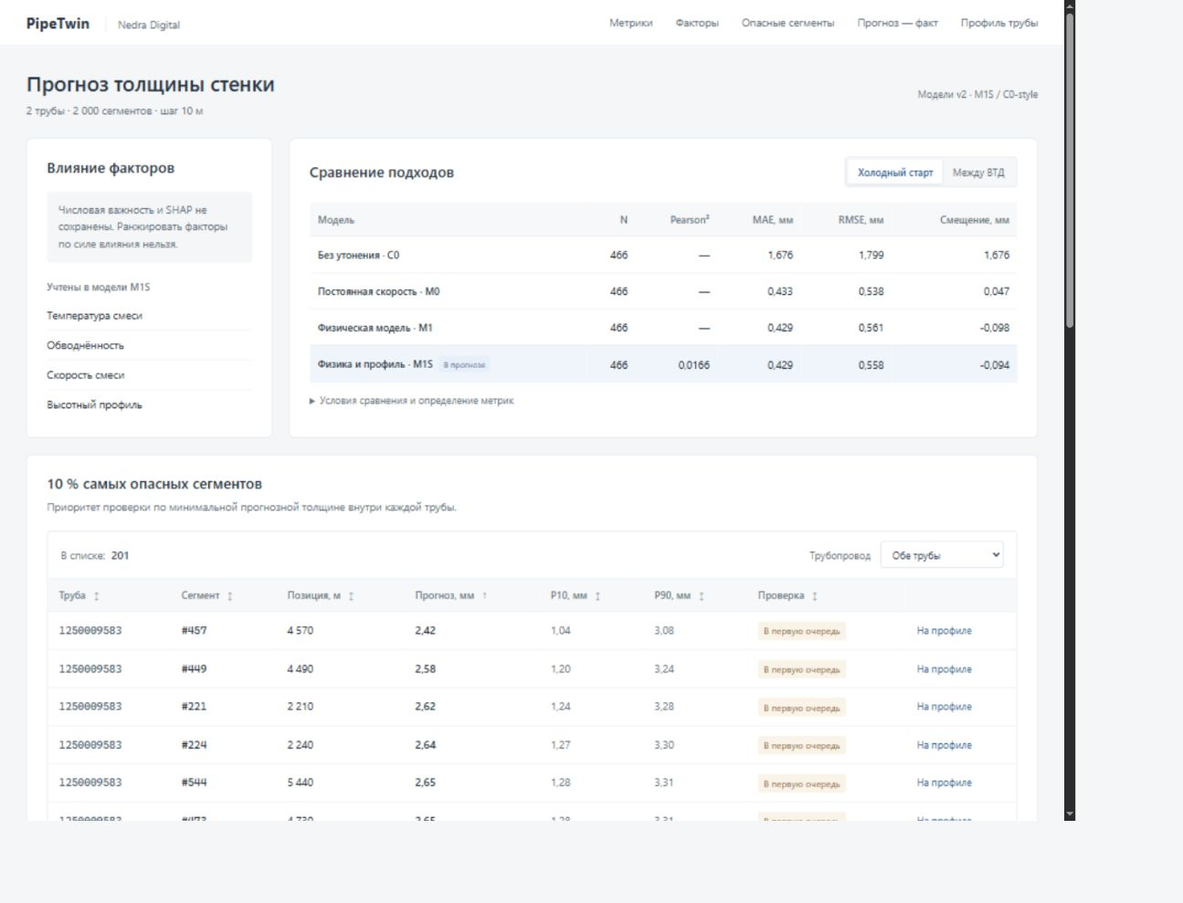
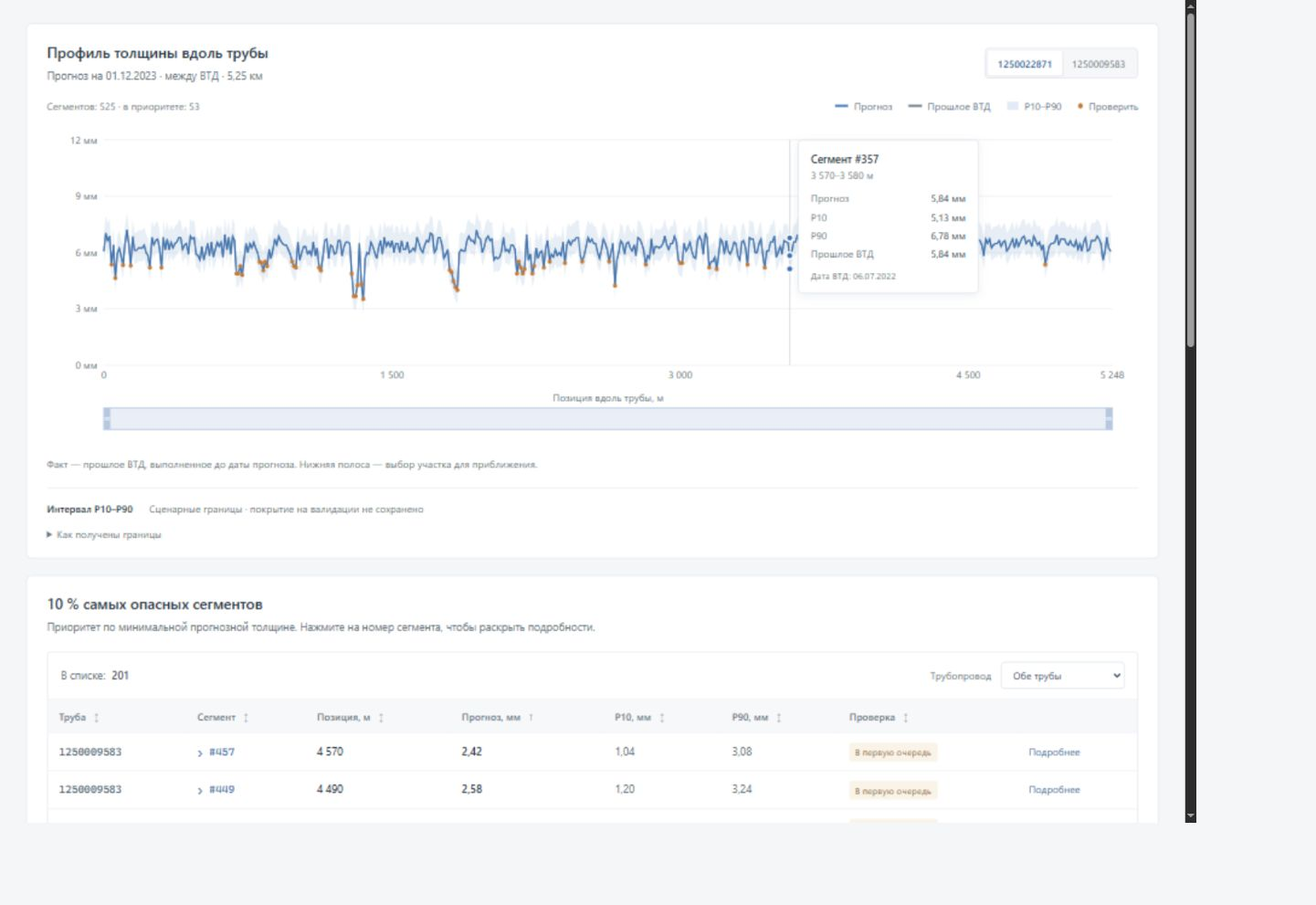
frontend-review with correct order

diff --git a/frontend/src/sections/RiskSection.tsx b/frontend/src/sections/RiskSection.tsx
@@ -1,6 +1,7 @@
-import { useMemo, useState } from 'react'
+import { Fragment, useMemo, useState } from 'react'
 import { SectionHeading } from '../components/SectionHeading'
-import type { RiskData, RiskRow, SegmentSelection } from '../types'
+import { RiskSegmentDetails } from '../components/RiskSegmentDetails'
+import type { ProfileData, RiskData, RiskRow, SegmentSelection } from '../types'
 import { PAGE_SIZE } from '../utils/constants'
 import { format, integer } from '../utils/format'
 
@@ -12,11 +13,16 @@ const columns: { key: SortKey; label: string }[] = [
   { key: 'risk_level', label: 'Проверка' },
 ]
 
-export function RiskSection({ data, onSelect }: { data: RiskData; onSelect: (selection: SegmentSelection) => void }) {
+export function RiskSection({ data, profile, onSelect }: {
+  data: RiskData
+  profile: ProfileData
+  onSelect: (selection: SegmentSelection) => void
+}) {
   const [pipe, setPipe] = useState('all')
   const [sortKey, setSortKey] = useState<SortKey>('prediction_mm')
   const [ascending, setAscending] = useState(true)
   const [page, setPage] = useState(0)
+  const [expandedKey, setExpandedKey] = useState<string | null>(null)
   const pipeIds = [...new Set(data.rows.map(row => row.pipe_id))]
   const rows = useMemo(() => data.rows.filter(row => pipe === 'all' || row.pipe_id === pipe).sort((a, b) => {
     const first = a[sortKey], second = b[sortKey]
@@ -24,30 +30,62 @@ export function RiskSection({ data, onSelect }: { data: RiskData; onSelect: (sel
     return (ascending ? order : -order) || a.segment_id - b.segment_id
   }), [data.rows, pipe, sortKey, ascending])
   const pageCount = Math.ceil(rows.length / PAGE_SIZE)
+  function toggleSegment(row: RiskRow) {
+    const key = `${row.pipe_id}-${row.segment_id}`
+    setExpandedKey(previous => previous === key ? null : key)
+  }
+  function changePage(nextPage: number) {
+    setPage(nextPage)
+    setExpandedKey(null)
+  }
   function sort(key: SortKey) {
     setAscending(sortKey === key ? !ascending : true)
     setSortKey(key)
     setPage(0)
+    setExpandedKey(null)
   }
   function cell(row: RiskRow, key: SortKey) {
     if (key === 'p10_mm' || key === 'p90_mm') return <span className="muted">{format(row[key])}</span>
     if (key === 'risk_level') return <span className="risk-badge">В первую очередь</span>
     if (key === 'prediction_mm') return <strong>{format(row.prediction_mm)}</strong>
-    if (key === 'segment_id') return <span className="mono">#{row.segment_id}</span>
+    if (key === 'segment_id') {
+      const expanded = expandedKey === `${row.pipe_id}-${row.segment_id}`
+      return <button className="segment-toggle mono" type="button" aria-expanded={expanded}
+        aria-controls={`segment-details-${row.pipe_id}-${row.segment_id}`}
+        aria-label={`Сегмент ${row.segment_id}, труба ${row.pipe_id}`}
+        onClick={() => toggleSegment(row)}>
+        <span className={`segment-chevron${expanded ? ' is-open' : ''}`} aria-hidden="true">›</span>
+        #{row.segment_id}
+      </button>
+    }
     if (key === 'position_m') return integer(row.position_m)
     return <span className="mono pipe-id">{row.pipe_id}</span>
   }
   return <section id="risk" className="panel">
     <SectionHeading title="10 % самых опасных сегментов"
-      description="Приоритет проверки по минимальной прогнозной толщине внутри каждой трубы."/>
+      description="Приоритет по минимальной прогнозной толщине. Нажмите на номер сегмента, чтобы раскрыть подробности."/>
     <div className="table-card"><div className="table-toolbar"><span className="toolbar-label">В списке: <strong>{integer(data.rows.length)}</strong></span>
-      <label className="select-label">Трубопровод<select value={pipe} onChange={event => { setPipe(event.target.value); setPage(0) }} aria-label="Фильтр по трубе"><option value="all">Обе трубы</option>{pipeIds.map(id => <option key={id} value={id}>{id}</option>)}</select></label></div>
-      <table className="risk-table"><caption className="sr-only">Самые тонкие сегменты по сохранённому прогнозу</caption><thead><tr>{columns.map(column => <th key={column.key} scope="col" aria-sort={sortKey === column.key ? ascending ? 'ascending' : 'descending' : 'none'}><button onClick={() => sort(column.key)}>{column.label}<span>{sortKey === column.key ? ascending ? '↑' : '↓' : '↕'}</span></button></th>)}<th scope="col"><span className="sr-only">Показать на профиле</span></th></tr></thead>
-        <tbody>{rows.slice(page * PAGE_SIZE, (page + 1) * PAGE_SIZE).map(row => <tr key={`${row.pipe_id}-${row.segment_id}`}>
-          {columns.map(column => <td key={column.key}>{cell(row, column.key)}</td>)}
-          <td><button className="row-action" aria-label={`Показать сегмент ${row.segment_id} трубы ${row.pipe_id} на профиле`} onClick={() => onSelect({ pipeId: row.pipe_id, segmentId: row.segment_id })}>На профиле</button></td>
-        </tr>)}</tbody>
-      </table><div className="table-pagination"><span>{integer(page * PAGE_SIZE + 1)}–{integer(Math.min((page + 1) * PAGE_SIZE, rows.length))} из {integer(rows.length)} сегментов</span><div><button disabled={page === 0} onClick={() => setPage(page - 1)} aria-label="Предыдущая страница">←</button><span>Страница {page + 1} / {pageCount}</span><button disabled={page + 1 >= pageCount} onClick={() => setPage(page + 1)} aria-label="Следующая страница">→</button></div></div>
+      <label className="select-label">Трубопровод<select value={pipe} onChange={event => { setPipe(event.target.value); changePage(0) }} aria-label="Фильтр по трубе"><option value="all">Обе трубы</option>{pipeIds.map(id => <option key={id} value={id}>{id}</option>)}</select></label></div>
+      <table className="risk-table"><caption className="sr-only">Самые тонкие сегменты по сохранённому прогнозу</caption><thead><tr>{columns.map(column => <th key={column.key} scope="col" aria-sort={sortKey === column.key ? ascending ? 'ascending' : 'descending' : 'none'}><button onClick={() => sort(column.key)}>{column.label}<span>{sortKey === column.key ? ascending ? '↑' : '↓' : '↕'}</span></button></th>)}<th scope="col"><span className="sr-only">Подробности сегмента</span></th></tr></thead>
+        <tbody>{rows.slice(page * PAGE_SIZE, (page + 1) * PAGE_SIZE).map(row => {
+          const key = `${row.pipe_id}-${row.segment_id}`
+          const expanded = expandedKey === key
+          const detailsId = `segment-details-${key}`
+          return <Fragment key={key}>
+            <tr className={expanded ? 'is-expanded' : undefined}>
+              {columns.map(column => <td key={column.key}>{cell(row, column.key)}</td>)}
+              <td><button className="row-action" type="button" aria-expanded={expanded} aria-controls={detailsId}
+                aria-label={`Подробности сегмента ${row.segment_id}, труба ${row.pipe_id}`}
+                onClick={() => toggleSegment(row)}>{expanded ? 'Свернуть' : 'Подробнее'}</button></td>
+            </tr>
+            {expanded && <tr className="segment-details-row" id={detailsId}>
+              <td colSpan={columns.length + 1}>
+                <RiskSegmentDetails row={row} pipe={profile.pipes.find(item => item.pipe_id === row.pipe_id)} onSelect={onSelect}/>
+              </td>
+            </tr>}
+          </Fragment>
+        })}</tbody>
+      </table><div className="table-pagination"><span>{integer(page * PAGE_SIZE + 1)}–{integer(Math.min((page + 1) * PAGE_SIZE, rows.length))} из {integer(rows.length)} сегментов</span><div><button disabled={page === 0} onClick={() => changePage(page - 1)} aria-label="Предыдущая страница">←</button><span>Страница {page + 1} / {pageCount}</span><button disabled={page + 1 >= pageCount} onClick={() => changePage(page + 1)} aria-label="Следующая страница">→</button></div></div>
     </div><p className="footnote">P10–P90 — сохранённые сценарные границы. Они не калиброваны как предиктивный интервал.</p>
   </section>
 }

diff --git a/frontend/src/styles.css b/frontend/src/styles.css
@@ -13,7 +13,7 @@
 }
 
 * { box-sizing: border-box; }
-html { min-width: 1280px; scroll-padding-top: 76px; }
+html { min-width: 1280px; scroll-padding-top: 24px; }
 body { margin: 0; }
 button, select { font: inherit; }
 button { cursor: pointer; }
@@ -72,6 +72,7 @@ button, a, select { -webkit-tap-highlight-color: transparent; }
   gap: 24px;
   margin-bottom: 24px;
 }
+.page-heading:empty { display: none; }
 h1 { margin: 0; font-size: 26px; font-weight: 600; letter-spacing: -.5px; }
 .page-heading p { color: var(--muted); margin: 8px 0 0; font-size: 13px; }
 .dataset-label { font-size: 12px; color: var(--muted); }
@@ -123,6 +124,23 @@ td strong { font-weight: 600; }
 .risk-badge { color: #926a32; background: #faf3e8; border-radius: 3px; padding: 4px 7px; font-size: 11px; white-space: nowrap; }
 .row-action { border: 0; background: transparent; color: #416fa5; font-size: 12px; padding: 5px 0; white-space: nowrap; }
 .row-action:hover { text-decoration: underline; }
+.segment-toggle { display: inline-flex; align-items: center; gap: 8px; padding: 5px 0; border: 0; background: transparent; color: #356ba9; }
+.segment-toggle:hover { text-decoration: underline; }
+.segment-chevron { display: inline-block; font-family: 'Segoe UI', sans-serif; font-size: 20px; line-height: 14px; transition: transform .15s; }
+.segment-chevron.is-open { transform: rotate(90deg); }
+.risk-table tr.is-expanded, .risk-table tr.is-expanded:hover { background: #eef4fb; }
+.risk-table .segment-details-row > td { padding: 0; }
+.risk-table .segment-details-row:hover { background: transparent; }
+.segment-details { padding: 20px 24px; background: #f7f9fc; border-left: 3px solid #6e99cb; }
+.segment-details-heading { display: flex; justify-content: space-between; align-items: center; gap: 24px; margin-bottom: 18px; }
+.segment-details-heading strong { font-size: 14px; font-weight: 600; }
+.segment-details-heading p { margin: 6px 0 0; font-size: 12px; color: var(--muted); }
+.segment-details-heading .button { font-size: 12px; }
+.segment-details-grid { display: grid; grid-template-columns: repeat(3, minmax(0, 1fr)); gap: 20px 32px; margin: 0; }
+.segment-details-grid dt { margin-bottom: 6px; font-size: 12px; color: var(--muted); }
+.segment-details-grid dd { margin: 0; font-size: 14px; font-weight: 500; }
+.segment-details-grid small { display: block; margin-top: 4px; font-size: 12px; font-weight: 400; color: var(--muted); }
+.segment-details-criterion { margin: 18px 0 0; padding-top: 14px; border-top: 1px solid #e1e7ef; font-size: 12px; color: var(--muted); }
 .table-pagination { display: flex; justify-content: space-between; align-items: center; padding: 12px 16px; border-top: 1px solid var(--border); color: var(--muted); font-size: 12px; }
 .table-pagination > div { display: flex; align-items: center; gap: 16px; }
 .table-pagination button { border: 1px solid var(--border); border-radius: 4px; background: #fff; color: #52667f; width: 30px; height: 28px; }

diff --git a/frontend/src/App.tsx b/frontend/src/App.tsx
@@ -1,5 +1,4 @@
 import { useState } from 'react'
-import { Header } from './components/Header'
 import { useProjectData } from './hooks/useProjectData'
 import { FactorsSection } from './sections/FactorsSection'
 import { RiskSection } from './sections/RiskSection'
@@ -7,7 +6,6 @@ import { ValidationSection } from './sections/ValidationSection'
 import { ProfileSection } from './sections/ProfileSection'
 import { ComparisonSection } from './sections/ComparisonSection'
 import type { FrontendData, SegmentSelection } from './types'
-import { integer } from './utils/format'
 
 function Dashboard({ data }: { data: FrontendData }) {
   const [groupId, setGroupId] = useState(data.validation.groups[0].id)
@@ -19,15 +17,15 @@ function Dashboard({ data }: { data: FrontendData }) {
   }
 
   //return <> <Header/> </>
-  return <> <main className="dashboard">
+  return <> <main className="dashboard" aria-label="Метрики и прогноз толщины стенки">
     <div className="page-heading">
       {/* <div><h1>Прогноз толщины стенки</h1><p>{data.profile.pipes.length} трубы · {integer(data.metrics.segment_count)} сегментов · шаг {data.metrics.segment_size_m} м</p></div> */}
       {/* <span className="dataset-label">Модели v2 · {data.metrics.final_model}</span> */}
     </div>
-    <div className="overview-grid"><FactorsSection data={data.importance}/><ComparisonSection data={data.metrics}/></div>
-    <RiskSection data={data.risk} onSelect={selectSegment}/>
-    <ValidationSection data={data.validation} group={group} onChange={setGroupId}/>
     <ProfileSection data={data.profile} intervalMethod={data.validation.interval_method} selection={selection}/>
+    <RiskSection data={data.risk} profile={data.profile} onSelect={selectSegment}/>
+    <ValidationSection data={data.validation} group={group} onChange={setGroupId}/>
+    <div className="overview-grid"><FactorsSection data={data.importance}/><ComparisonSection data={data.metrics}/></div>
   </main></>
 }
 

diff --git a/frontend/src/components/RiskSegmentDetails.tsx b/frontend/src/components/RiskSegmentDetails.tsx
@@ -1,0 +1,32 @@
+import type { Pipe, RiskRow, SegmentSelection } from '../types'
+import { date, format, integer } from '../utils/format'
+
+export function RiskSegmentDetails({ row, pipe, onSelect }: {
+  row: RiskRow
+  pipe?: Pipe
+  onSelect: (selection: SegmentSelection) => void
+}) {
+  const point = pipe?.points.find(item => item.segment_id === row.segment_id)
+  return <div className="segment-details">
+    <div className="segment-details-heading">
+      <div>
+        <strong>Сегмент #{row.segment_id} · труба {row.pipe_id}</strong>
+        <p>Место в списке для этой трубы: {row.rank}{pipe && ` из ${pipe.risk_count}`}</p>
+      </div>
+      <button className="button" onClick={() => onSelect({ pipeId: row.pipe_id, segmentId: row.segment_id })}>
+        Показать на профиле ↑
+      </button>
+    </div>
+    <dl className="segment-details-grid">
+      <div><dt>Участок трубы</dt><dd>{integer(row.position_m)}{point && `–${integer(point.end_m)}`} м</dd></div>
+      <div><dt>Прогноз толщины</dt><dd>{format(row.prediction_mm)} мм</dd></div>
+      <div><dt>Границы P10–P90</dt><dd>{format(row.p10_mm)}–{format(row.p90_mm)} мм</dd></div>
+      <div><dt>Дата прогноза</dt><dd>{pipe ? date(pipe.prediction_date) : '—'}</dd></div>
+      <div><dt>Прошлое ВТД</dt><dd>{point?.actual_mm == null ? 'Нет измерения' : `${format(point.actual_mm)} мм`}
+        {point?.actual_date && <small>от {date(point.actual_date)}</small>}
+      </dd></div>
+      <div><dt>Сценарий</dt><dd>{pipe ? pipe.case === 'cold_start' ? 'Холодный старт' : 'Между ВТД' : '—'}</dd></div>
+    </dl>
+    <p className="segment-details-criterion">Критерий приоритета: {row.criterion.toLocaleLowerCase('ru-RU')}.</p>
+  </div>
+}

diff --git a/frontend/REPORT.md b/frontend/REPORT.md
@@ -6,7 +6,7 @@
 
 ## Переделка в рабочую страницу метрик
 
-По запросу пользователя применён навык `.agents/skills/cleanup-vibe-code/SKILL.md`. До изменений проверены импорты, TypeScript, ссылки на компоненты, переменные окружения и отладочные остатки. TypeScript проходил; сломанных импортов и отладочного кода не было. Используется только стандартная переменная Vite `BASE_URL`; секреты и внешние интеграции не нужны. ESLint в проекте не настроен; дополнительные зависимости для этой переделки не устанавливались.
+По запросу пользователя применён навык `.agents/skills/vibe-code-cleanup/SKILL.md`. До изменений проверены импорты, TypeScript, ссылки на компоненты, переменные окружения и отладочные остатки. TypeScript проходил; сломанных импортов и отладочного кода не было. Используется только стандартная переменная Vite `BASE_URL`; секреты и внешние интеграции не нужны. ESLint в проекте не настроен; дополнительные зависимости для этой переделки не устанавливались.
 
 Удалены рекламный Hero, декоративная схема труб, слоганы, CTA, декоративные номера секций, повторяющиеся пояснения и подвал. В интерфейсе пять блоков: факторы, сравнение подходов, опасные сегменты, валидация, профиль толщины. Сценарный интервал встроен в профиль и таблицу. Метрики доступны сразу на первом экране. Подробности методики свёрнуты в `details`.
 
@@ -15,6 +15,28 @@
 `HeroSection`, `PipelineDiagram`, `UncertaintySection` удалены после проверки отсутствия потребителей. Неиспользуемые `TOP_FEATURE_COUNT`, `COLORS.ink`, `percent` и прежние CSS-правила удалены. Контракты JSON, источники и Python-экспортёр не менялись: SHA-256 всех пяти JSON совпали до и после изменений. Обучение и пересчёт метрик не запускались.
 
 После переделки прошли TypeScript, production-сборка и четыре проверки сохранённых данных. В браузере проверены фильтр, пагинация, сортировка P90 и сегмента, переход к точке с P10/P90, обе трубы, оба сценария валидации и сравнения. Ошибок или предупреждений в консоли нет. JSON и исходные данные не изменены.
+
+## Проверка после отключения шапки и заголовка
+
+Использован актуальный навык `.agents/skills/vibe-code-cleanup/SKILL.md`. Комментарии пользователя в `App.tsx` оставлены без изменений; шапка, заголовок страницы и подпись моделей не возвращались.
+
+Устранены две ошибки TS6133: удалены неиспользуемые импорты `Header` и `integer`. Пустой `.page-heading` больше не создаёт верхний отступ. Отступ прокрутки уменьшен с 76 до 24 px, поскольку фиксированная шапка отключена. Для основного содержимого добавлена невидимая подпись `aria-label`.
+
+Проверены CSS-ширины примерно 1280, 1440 и 1920 px: горизонтального переполнения страницы и панелей нет, содержимое ограничено шириной 1504 px. Проверены таблицы, фильтр, страницы рейтинга, переключение сценариев, переход к сегменту, подсказка с прогнозом и P10/P90, подписи осей и сценарная полоса. TypeScript и сборка проходят, четыре проверки сохранённых данных прошли. Предупреждения Rollup о Zod и размере JS существовали до этой проверки.
+
+Данные, экспортёр и зависимости не менялись. Снимок `frontend/preview.jpg` обновлён для текущей страницы без отключённых блоков.
+
+## Раскрытие сегментов и новый порядок страницы
+
+Порядок отображения изменён по требованию пользователя: профиль толщины, 10 % опасных сегментов, scatter валидации, затем факторы и сравнение моделей с метриками. Отключённые пользователем шапка и заголовок не восстановлены.
+
+Номер сегмента и кнопка «Подробнее» раскрывают карточку непосредственно под строкой таблицы. Одновременно открыта одна карточка; повторное нажатие сворачивает её. Для клавиатуры работает Enter, состояние передаётся через `aria-expanded` и `aria-controls`. Фильтрация, сортировка и переход по страницам сбрасывают раскрытие.
+
+Новый компонент `src/components/RiskSegmentDetails.tsx` использует существующие `top_risk_segments.json` и `profile.json`: границы участка, сохранённый прогноз, P10/P90, дату прогноза, прошлое ВТД с датой, сценарий и место в сохранённом рейтинге. Если измерения нет, показано «Нет измерения». Дополнительных расчётов, нормативных порогов или новых прогнозов нет. Кнопка «Показать на профиле» переключает верхний график на нужную трубу и выделяет сегмент.
+
+Проверены раскрытие и сворачивание мышью и Enter, замена открытой карточки другой, сброс при фильтрации и смене страницы, карточки обеих труб с измерением и без него, переход к профилю. При CSS-ширине около 1280 px переполнения нет. TypeScript, production-сборка и четыре проверки данных прошли; консоль браузера без ошибок и предупреждений. Контрольные суммы всех пяти JSON остались прежними.
+
+Снимки: `frontend/preview.jpg` — новый первый экран; `frontend/segment-details-preview.jpg` — раскрытый сегмент.
 
 ## Что найдено в репозитории
 
@@ -114,6 +136,7 @@ frontend/
   README.md
   REPORT.md
   preview.jpg
+  segment-details-preview.jpg
   public/data/
     metrics.json
     feature_importance.json
@@ -126,6 +149,7 @@ frontend/
     styles.css
     vite-env.d.ts
     components/
+      RiskSegmentDetails.tsx
       Header.tsx
       SectionHeading.tsx
       Tabs.tsx

diff --git a/frontend/README.md b/frontend/README.md
@@ -54,6 +54,12 @@ Dev-сервер: `http://127.0.0.1:5173`. Сборка: `frontend/dist/`. `base
 
 Проверки сверяют экспорт с готовыми источниками, включая сохранённые метрики, прогнозы и рейтинг риска. Строгая проверка TypeScript входит в `npm run build`; Zod проверяет JSON при загрузке. Предусмотрены загрузка, сообщение об ошибке и повторная попытка.
 
+## Работа со страницей
+
+Порядок блоков: профиль толщины → опасные сегменты → прогноз–факт на валидации → факторы и сравнение моделей с метриками.
+
+В таблице опасных сегментов нажмите номер сегмента или «Подробнее»: под строкой откроются границы участка, прогноз, P10/P90, дата и доступное прошлое ВТД. Повторное нажатие сворачивает карточку. Кнопка «Показать на профиле» выбирает соответствующую трубу и отмечает сегмент на верхнем графике. При смене фильтра, сортировки или страницы карточка закрывается.
+
 ## Структура
 
 - `src/components/` — общие элементы интерфейса.
